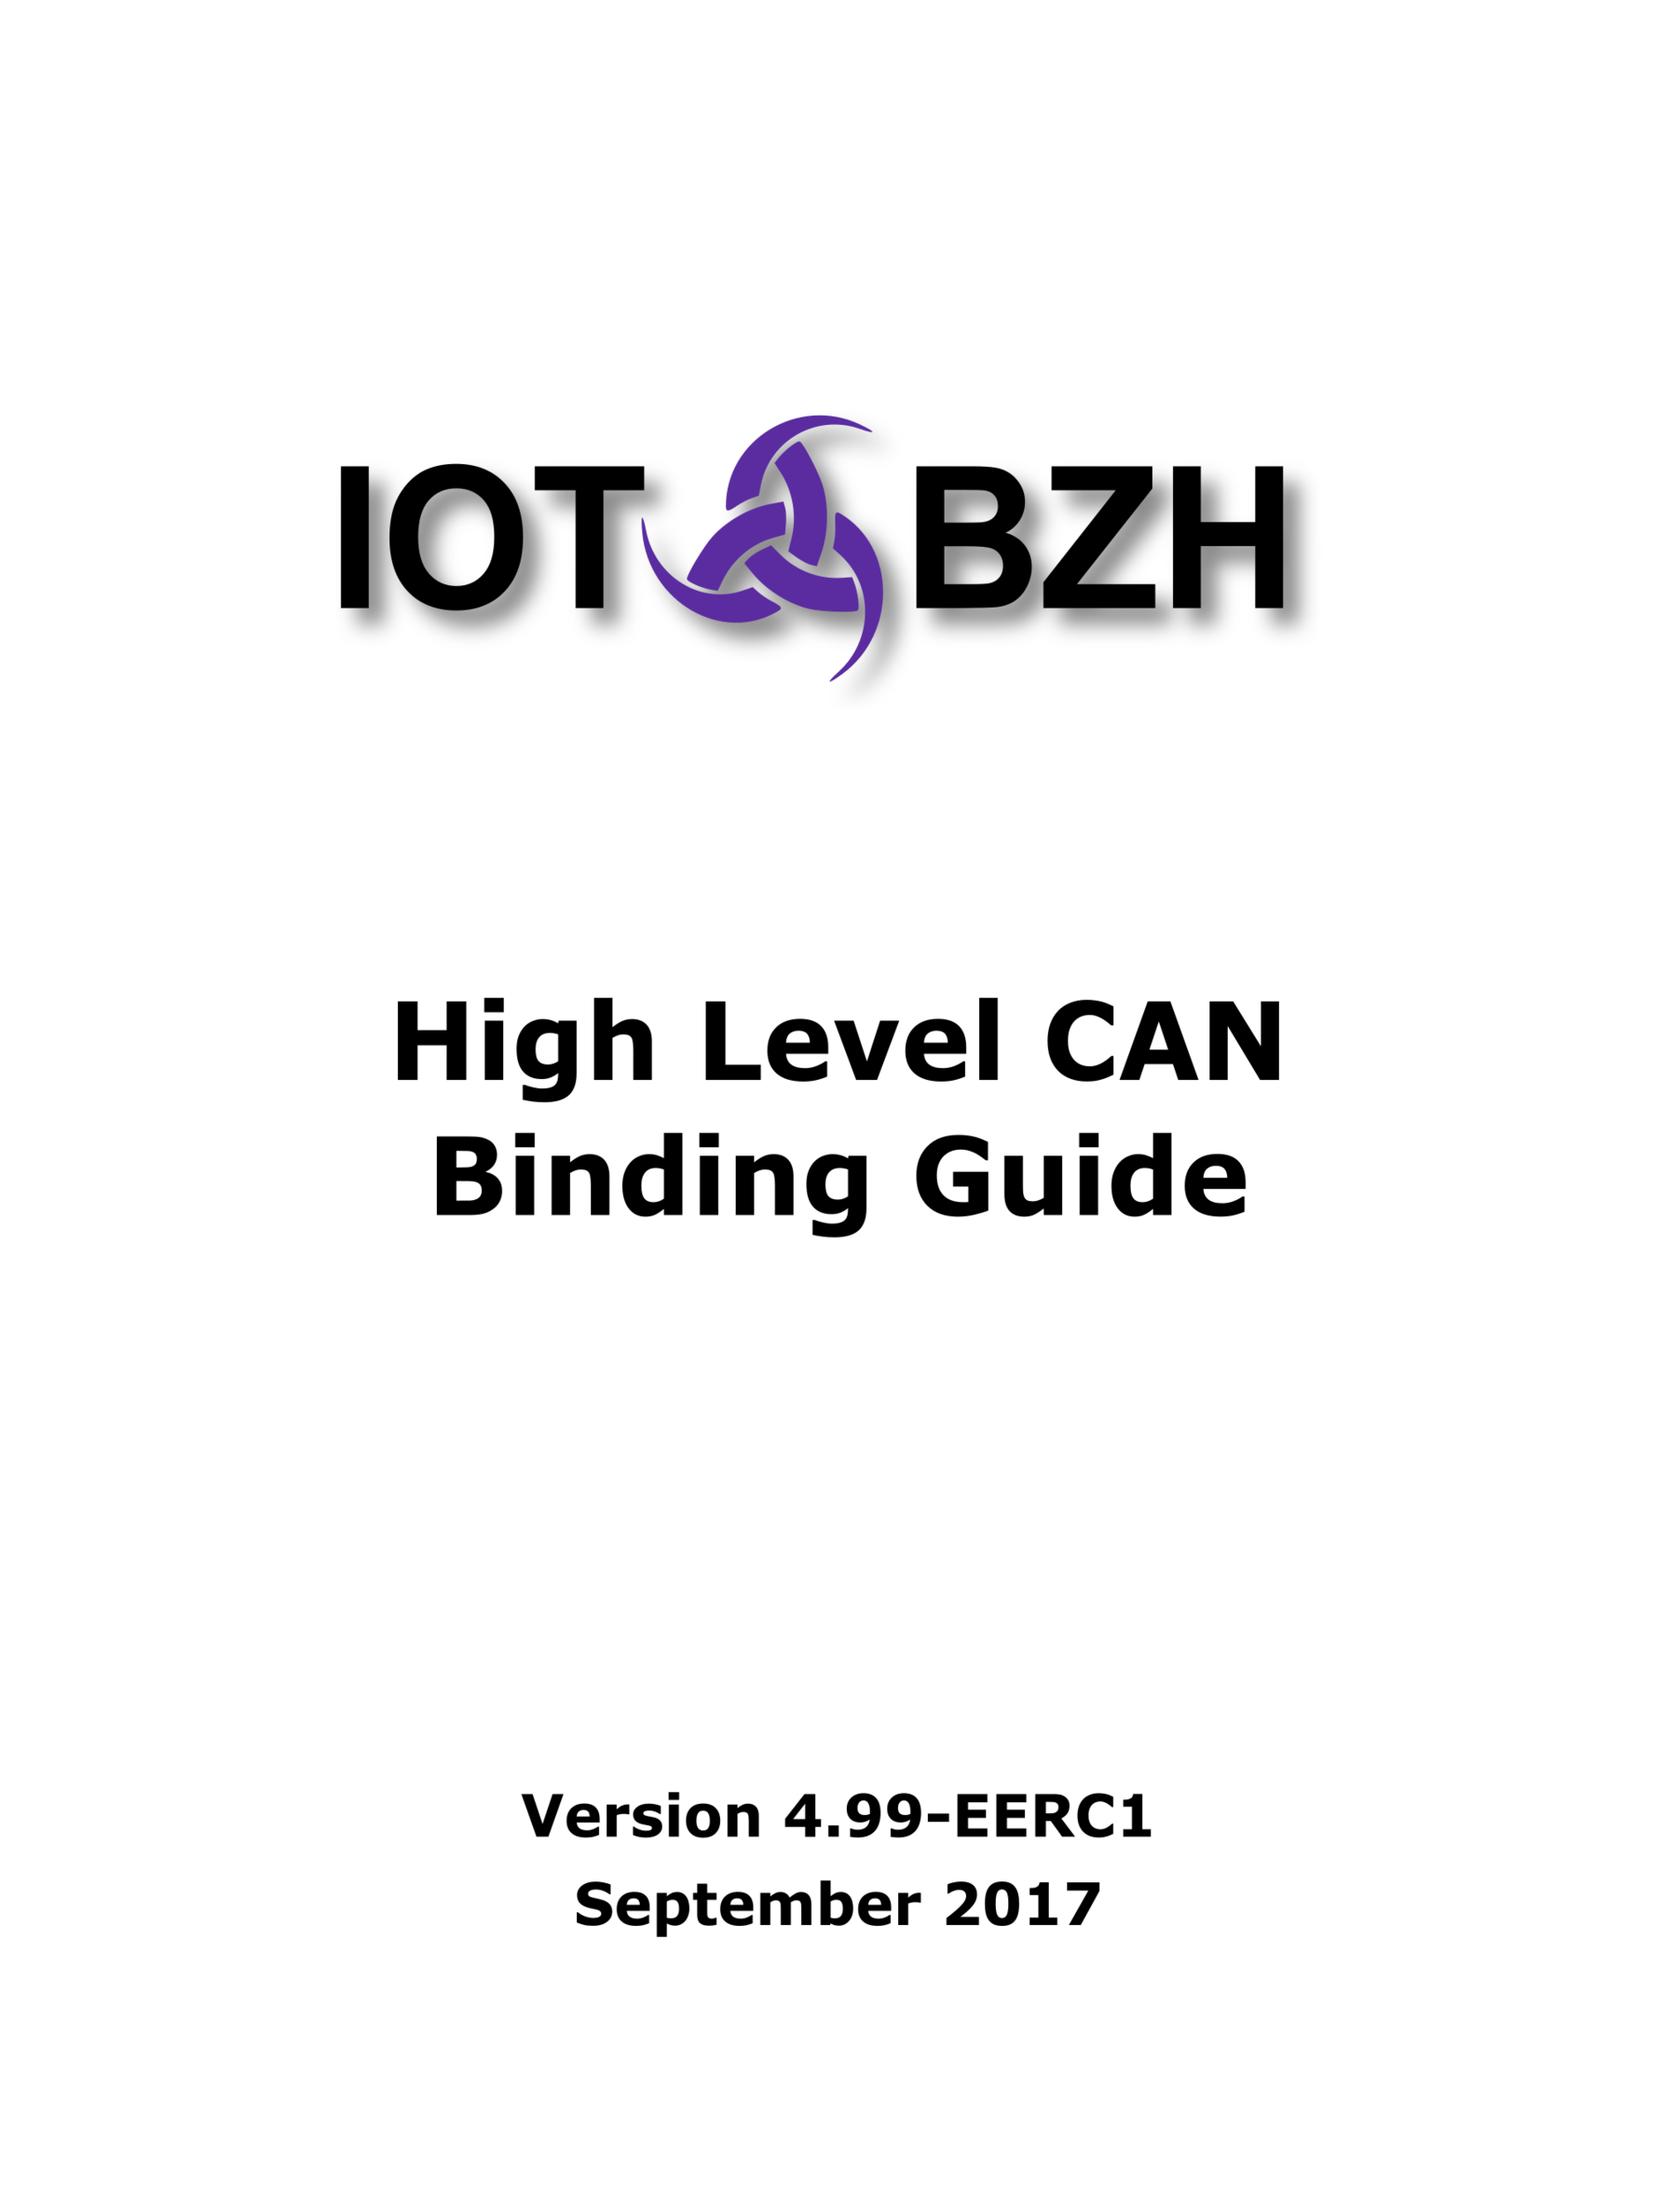
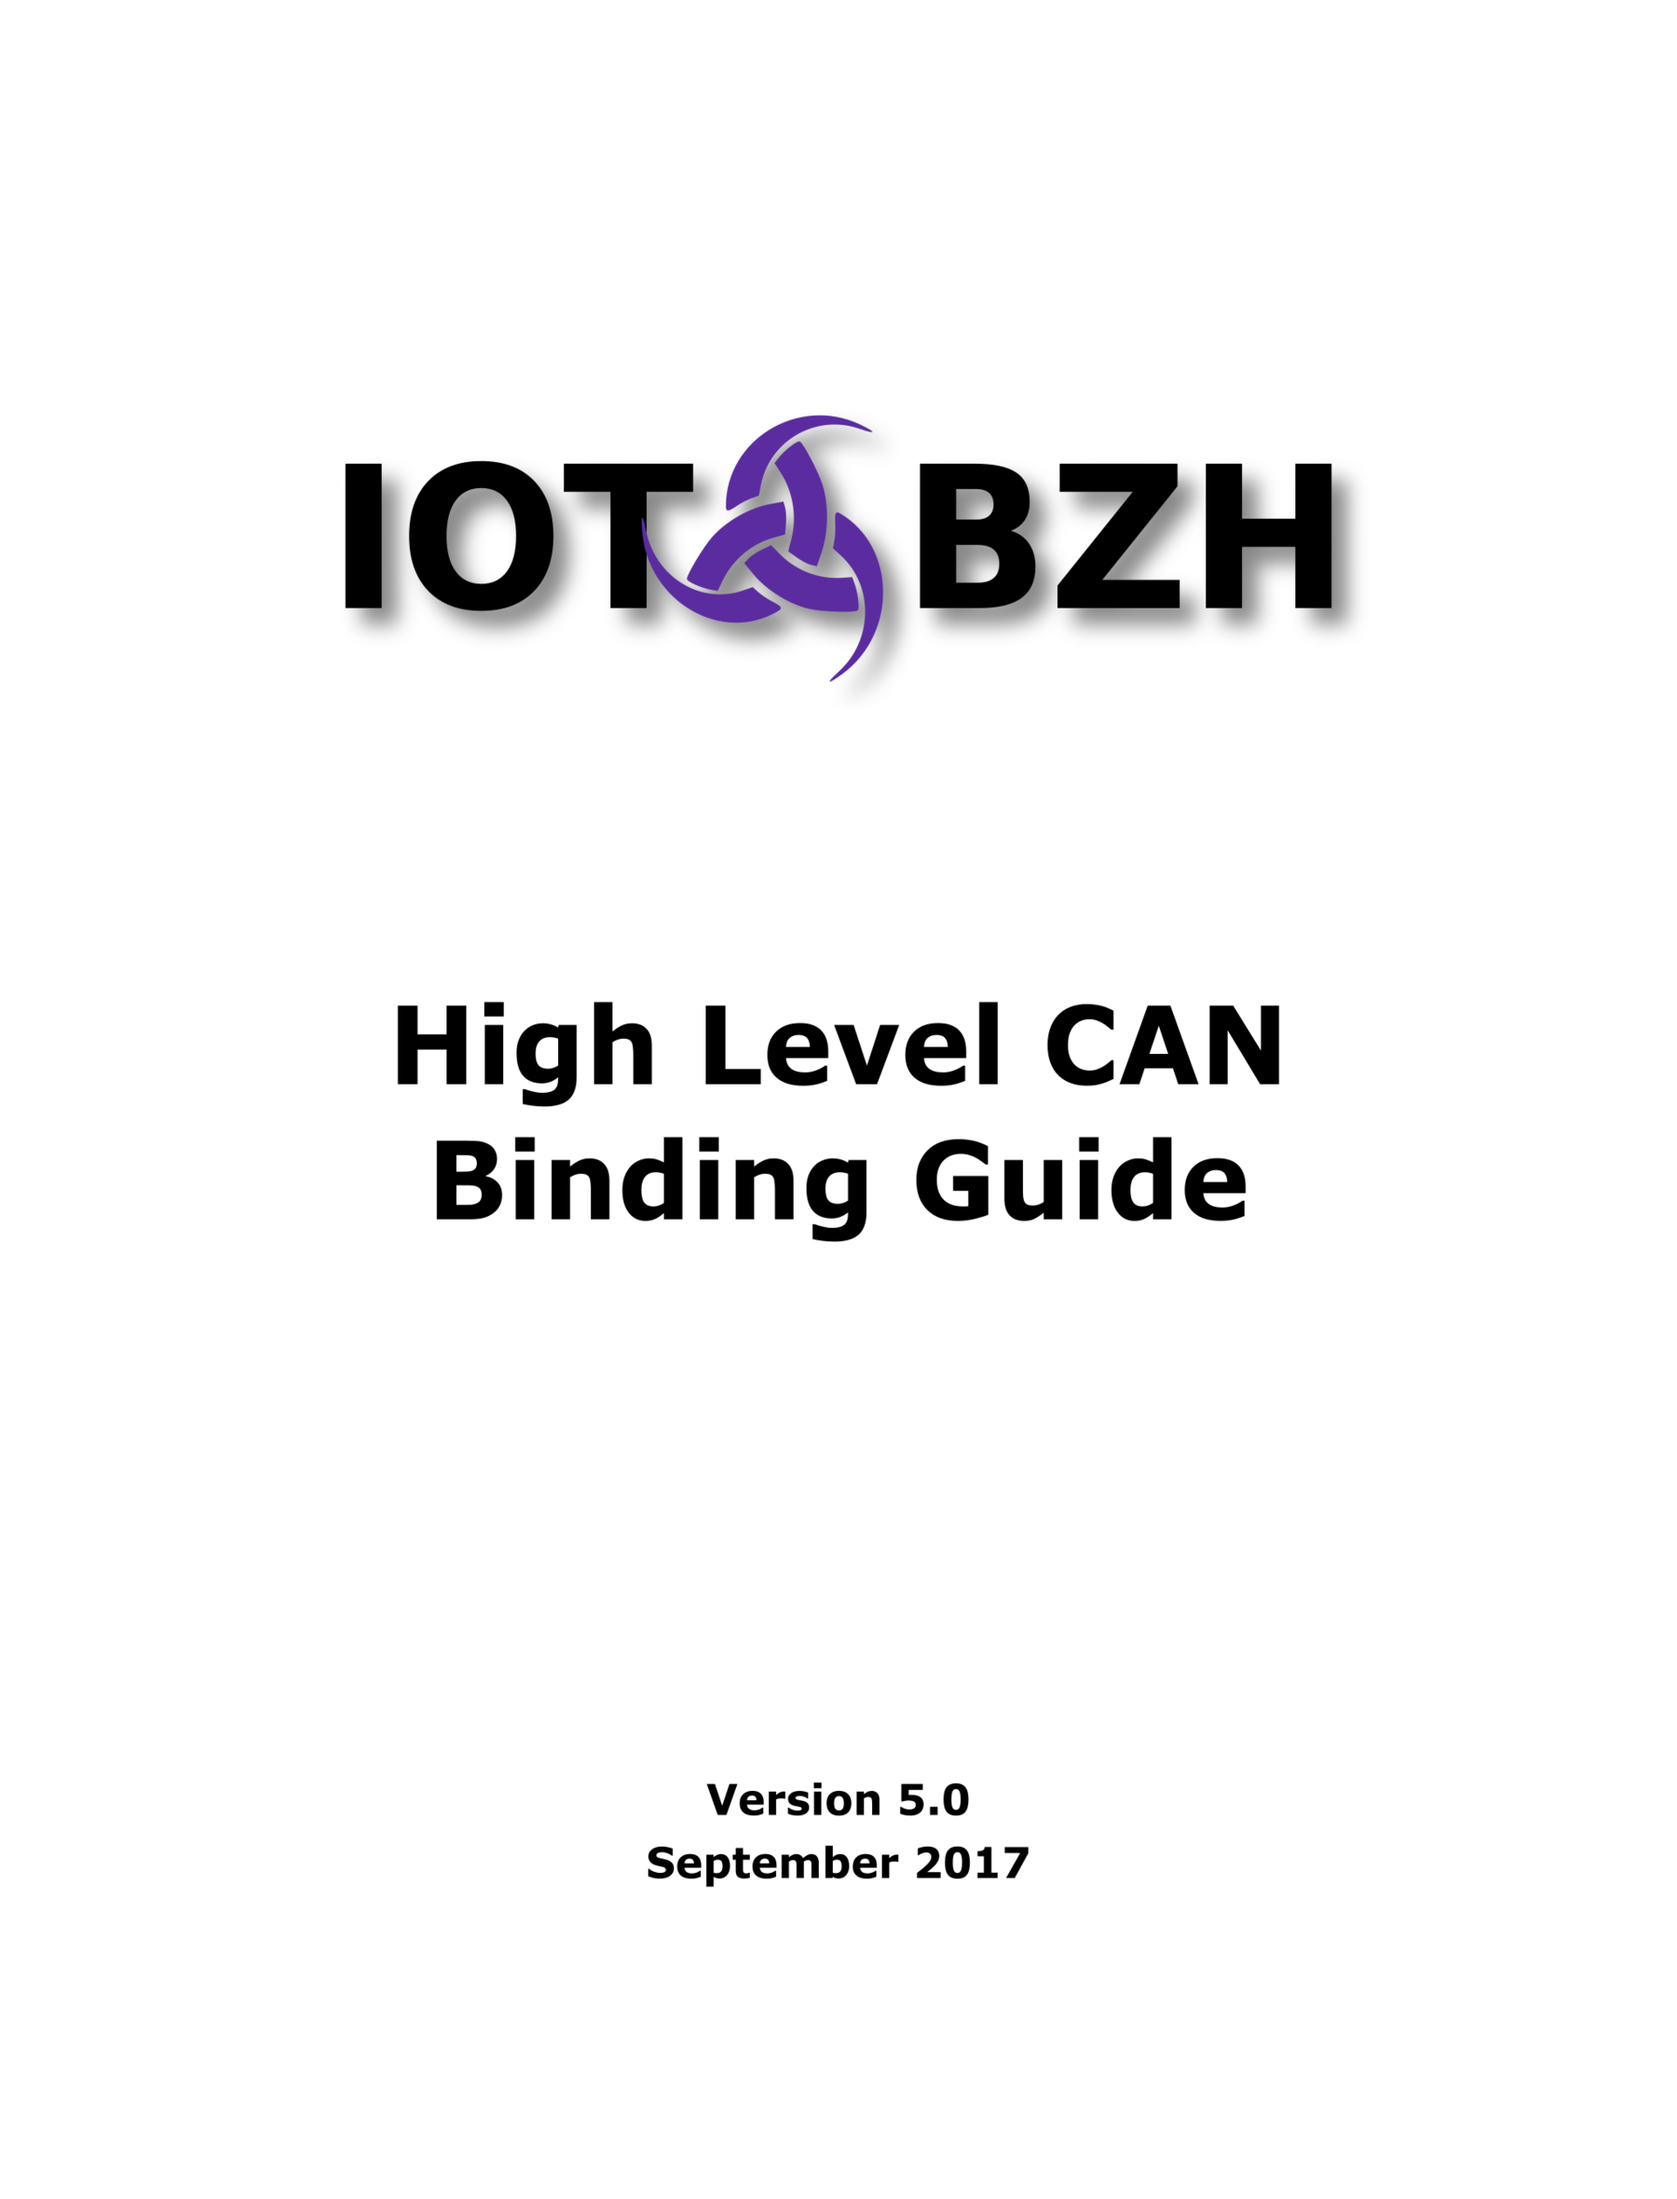
Update gitbook templates
Updating cover automatically using metadata in books.json

diff --git a/docs/resources/ebook.css b/docs/resources/ebook.css
@@ -70,6 +70,22 @@ div.note p {
     margin-bottom: 0;
 }
 
+/* warning blocks */
+
+div.warning {
+    background: #FD9595 none repeat scroll 0% 0%;
+    color: #8A6D3B;
+    padding: 15px;
+    margin-bottom: 10px;
+    border-bottom: 5px solid #DDD;
+    border-color: #FF6B6B;
+    page-break-inside: avoid;
+}
+
+div.warning p {
+    padding-bottom: 0;
+    margin-bottom: 0;
+}
 
 /* images, figures and captions */
 
